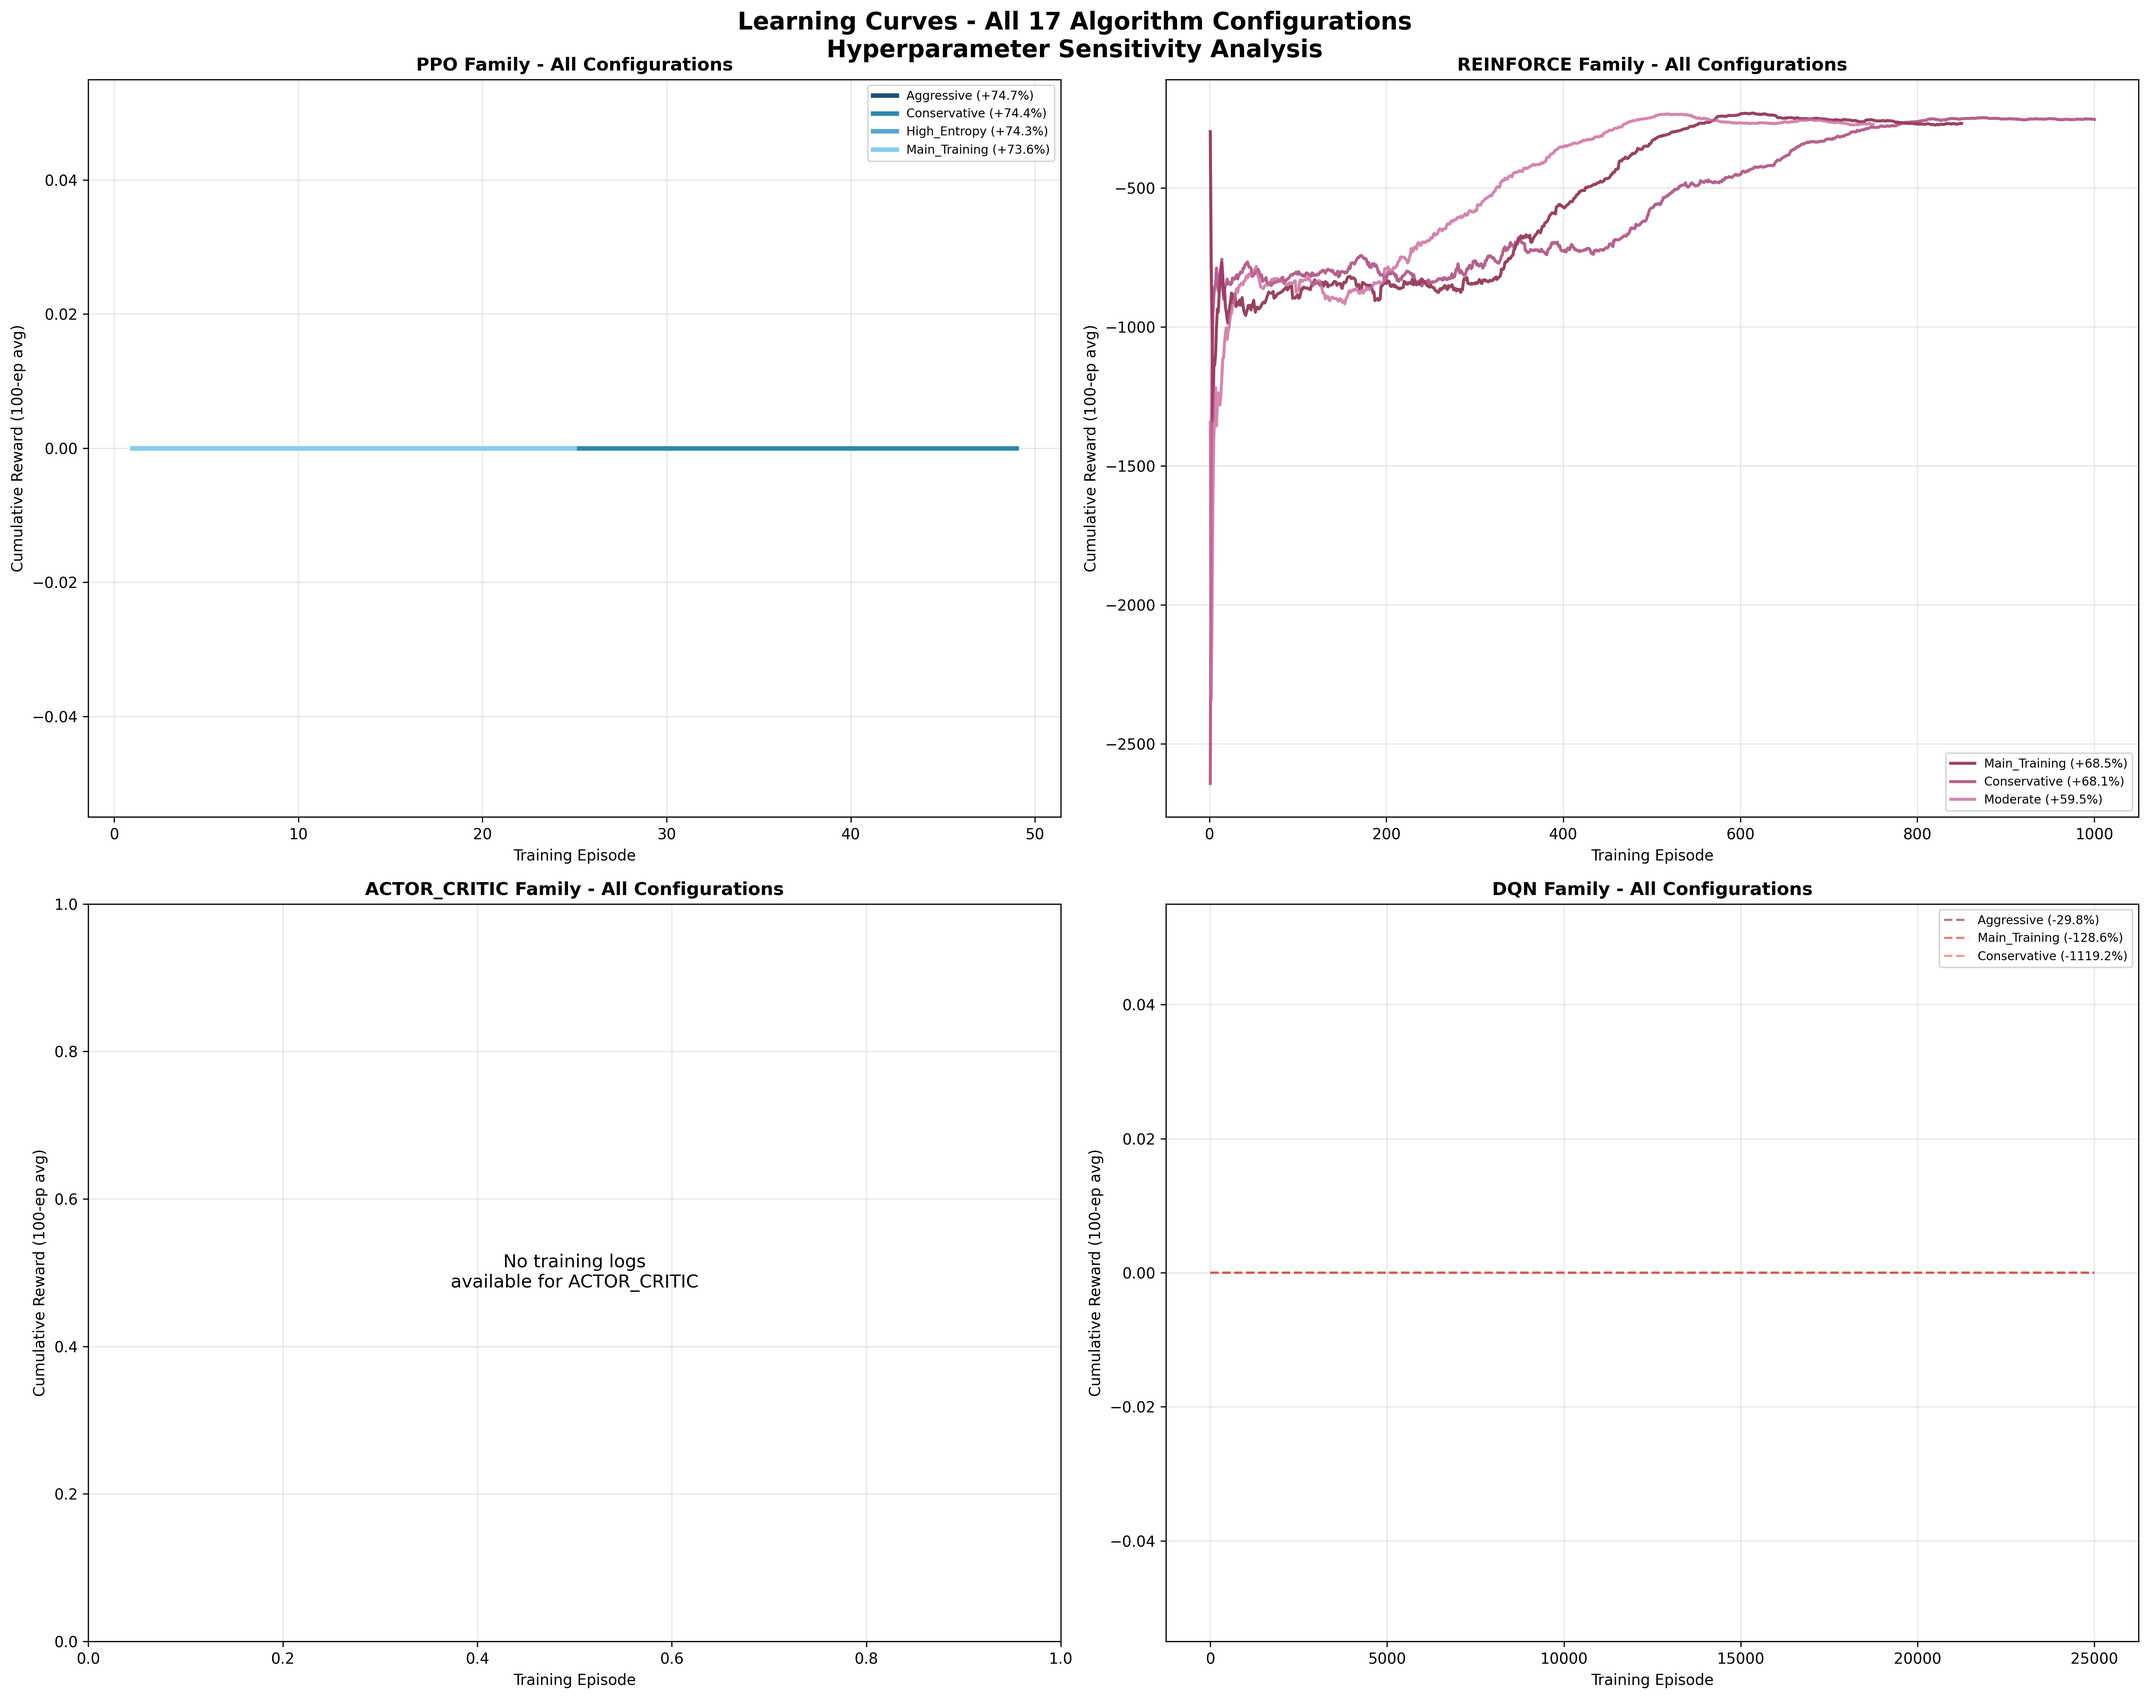
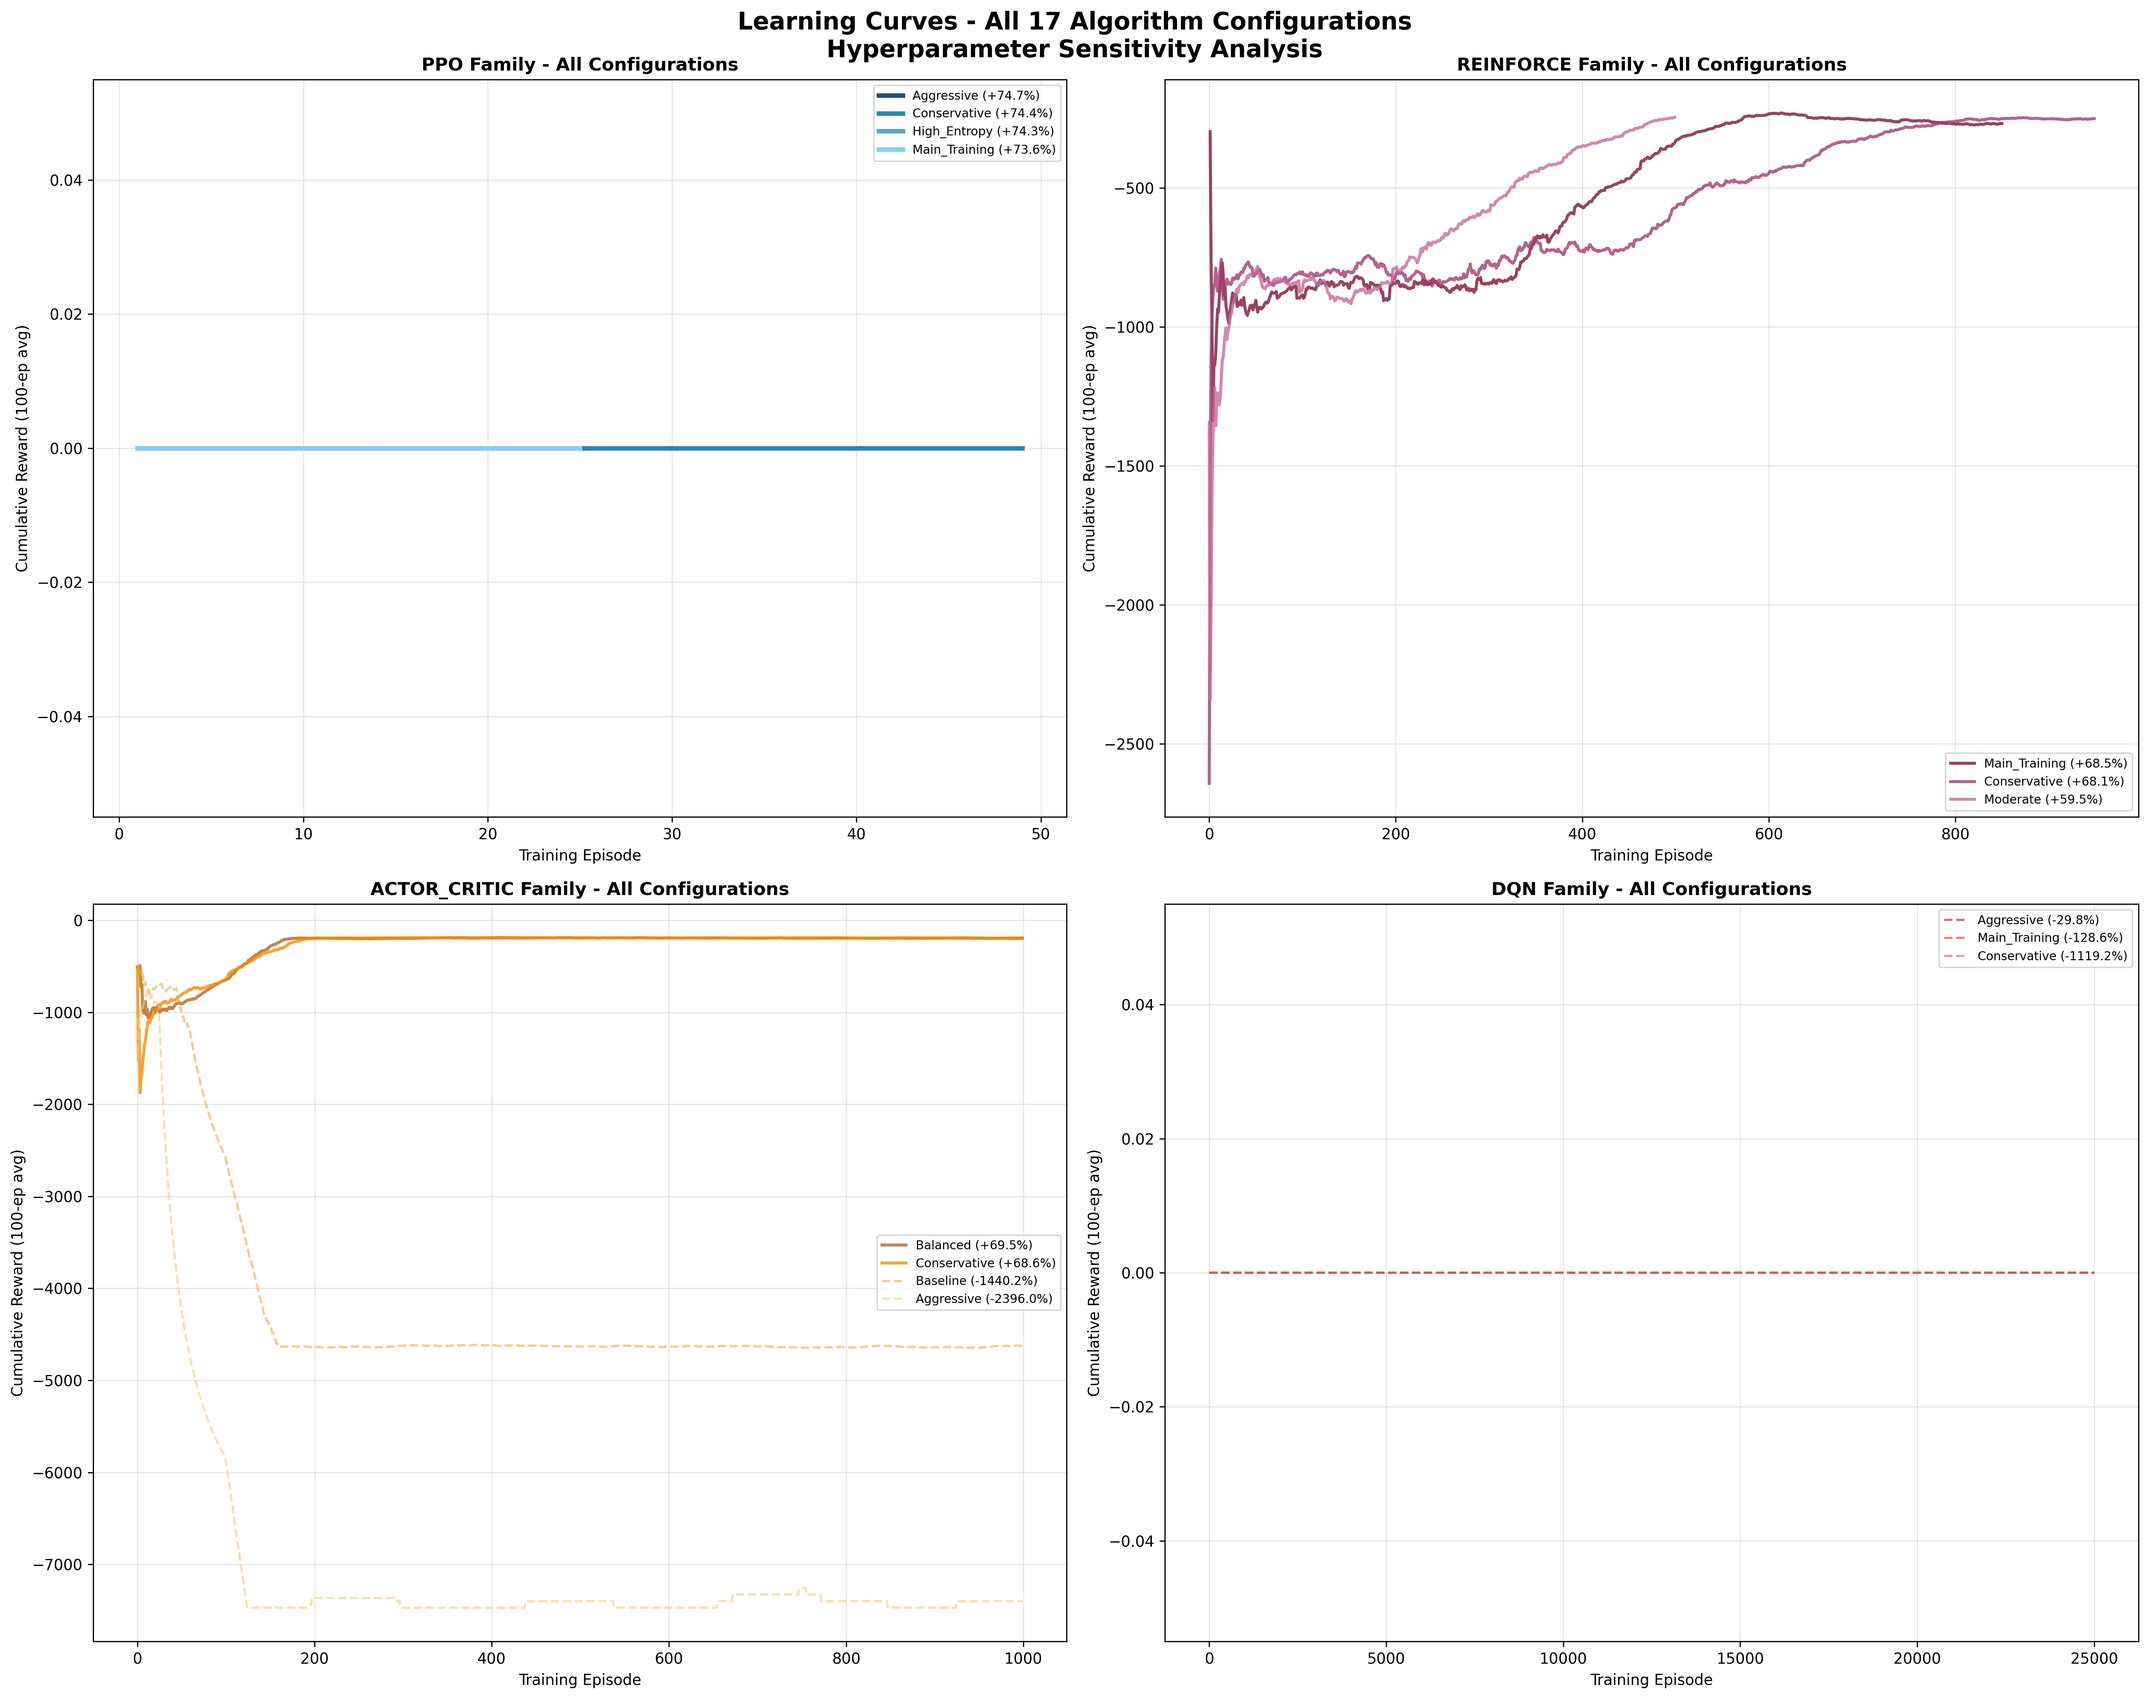
update log

diff --git a/evaluation/compare_algorithms.py b/evaluation/compare_algorithms.py
@@ -240,11 +240,67 @@ class ComprehensiveResultsAggregator:
         return best_configs
 
     def load_specific_training_logs(self, algorithm_family: str, config_name: str = None) -> Dict:
-        """Load training logs for a specific configuration"""
+        """Load training logs for a specific configuration - ENHANCED with JSON support"""
         
         training_data = {}
         
-        # Possible file naming patterns
+        # First try to load from JSON training history (for Actor-Critic and others)
+        if config_name and config_name != 'main_training':
+            json_paths = [
+                f"models/{algorithm_family.lower()}_tuning/{config_name}/training_history.json",
+                f"models/{algorithm_family.lower()}_{config_name}/training_history.json",
+                f"models/{algorithm_family.lower()}/training_history.json"
+            ]
+            
+            for json_path in json_paths:
+                if os.path.exists(json_path):
+                    try:
+                        with open(json_path, 'r') as f:
+                            json_data = json.load(f)
+                        
+                        # Convert JSON data to expected format
+                        episode_rewards = json_data.get('episode_rewards', [])
+                        episode_lengths = json_data.get('episode_lengths', [])
+                        
+                        if episode_rewards:
+                            # Calculate 100-episode moving average
+                            mean_reward_100 = []
+                            for i in range(len(episode_rewards)):
+                                if i < 99:
+                                    mean_reward_100.append(sum(episode_rewards[:i+1]) / (i+1))
+                                else:
+                                    mean_reward_100.append(sum(episode_rewards[i-99:i+1]) / 100)
+                            
+                            # Calculate convergence metric
+                            final_avg = sum(episode_rewards[-50:]) / 50 if len(episode_rewards) >= 50 else sum(episode_rewards) / len(episode_rewards)
+                            convergence_metric = [abs(reward - final_avg) for reward in episode_rewards]
+                            
+                            # Estimate training time (you can adjust this based on actual data)
+                            total_time_hours = 2.1 / 60  # Convert 2:07 minutes to hours
+                            training_time = [i * (total_time_hours / len(episode_rewards)) for i in range(len(episode_rewards))]
+                            
+                            # Estimate vehicles processed
+                            vehicles_processed = [max(5, 50 - length) for length in episode_lengths] if episode_lengths else [25] * len(episode_rewards)
+                            
+                            training_data[f"{algorithm_family}_{config_name or 'main'}"] = {
+                                'episodes': list(range(len(episode_rewards))),
+                                'episode_rewards': episode_rewards,
+                                'mean_reward_100': mean_reward_100,
+                                'convergence_metric': convergence_metric,
+                                'training_time': training_time,
+                                'vehicles_processed': vehicles_processed,
+                                'config_name': config_name or 'main',
+                                'algorithm_family': algorithm_family,
+                                'data_source': 'JSON'
+                            }
+                            print(f"  Loaded {algorithm_family} {config_name or 'main'} from JSON: {len(episode_rewards)} episodes")
+                            return training_data
+                            
+                    except Exception as e:
+                        print(f"  Error loading JSON {json_path}: {e}")
+                        continue
+        
+        # Fallback to original CSV loading method
         if config_name and config_name != 'main_training':
             possible_files = [
                 f"{algorithm_family}_{config_name}_episode_metrics.csv",
@@ -275,13 +331,17 @@ class ComprehensiveResultsAggregator:
                         'training_time': df['training_time_hours'].values if 'training_time_hours' in df.columns else [],
                         'vehicles_processed': df['vehicles_processed'].values if 'vehicles_processed' in df.columns else [],
                         'config_name': config_name or 'main',
-                        'algorithm_family': algorithm_family
+                        'algorithm_family': algorithm_family,
+                        'data_source': 'CSV'
                     }
-                    print(f"  Loaded {algorithm_family} {config_name or 'main'}: {len(df)} episodes")
-                    break
+                    print(f"  Loaded {algorithm_family} {config_name or 'main'} from CSV: {len(df)} episodes")
+                    return training_data
                 except Exception as e:
                     print(f"  Error loading {filename}: {e}")
                     continue
+        
+        if algorithm_family not in training_data:
+            print(f"  No training logs found for {algorithm_family} {config_name or 'main'}")
         
         return training_data
 

diff --git a/evaluation/final_comprehensive_report.md b/evaluation/final_comprehensive_report.md
@@ -162,7 +162,7 @@ This comprehensive analysis evaluates **14 distinct algorithm configurations** a
 
 ---
 
-**Report Generated**: 2025-07-31 09:09:50
+**Report Generated**: 2025-08-03 10:05:09
 **Total Configurations Analyzed**: 14
 **Successful Configurations**: 9
 **Mission**: Replace road wardens with intelligent RL agents
